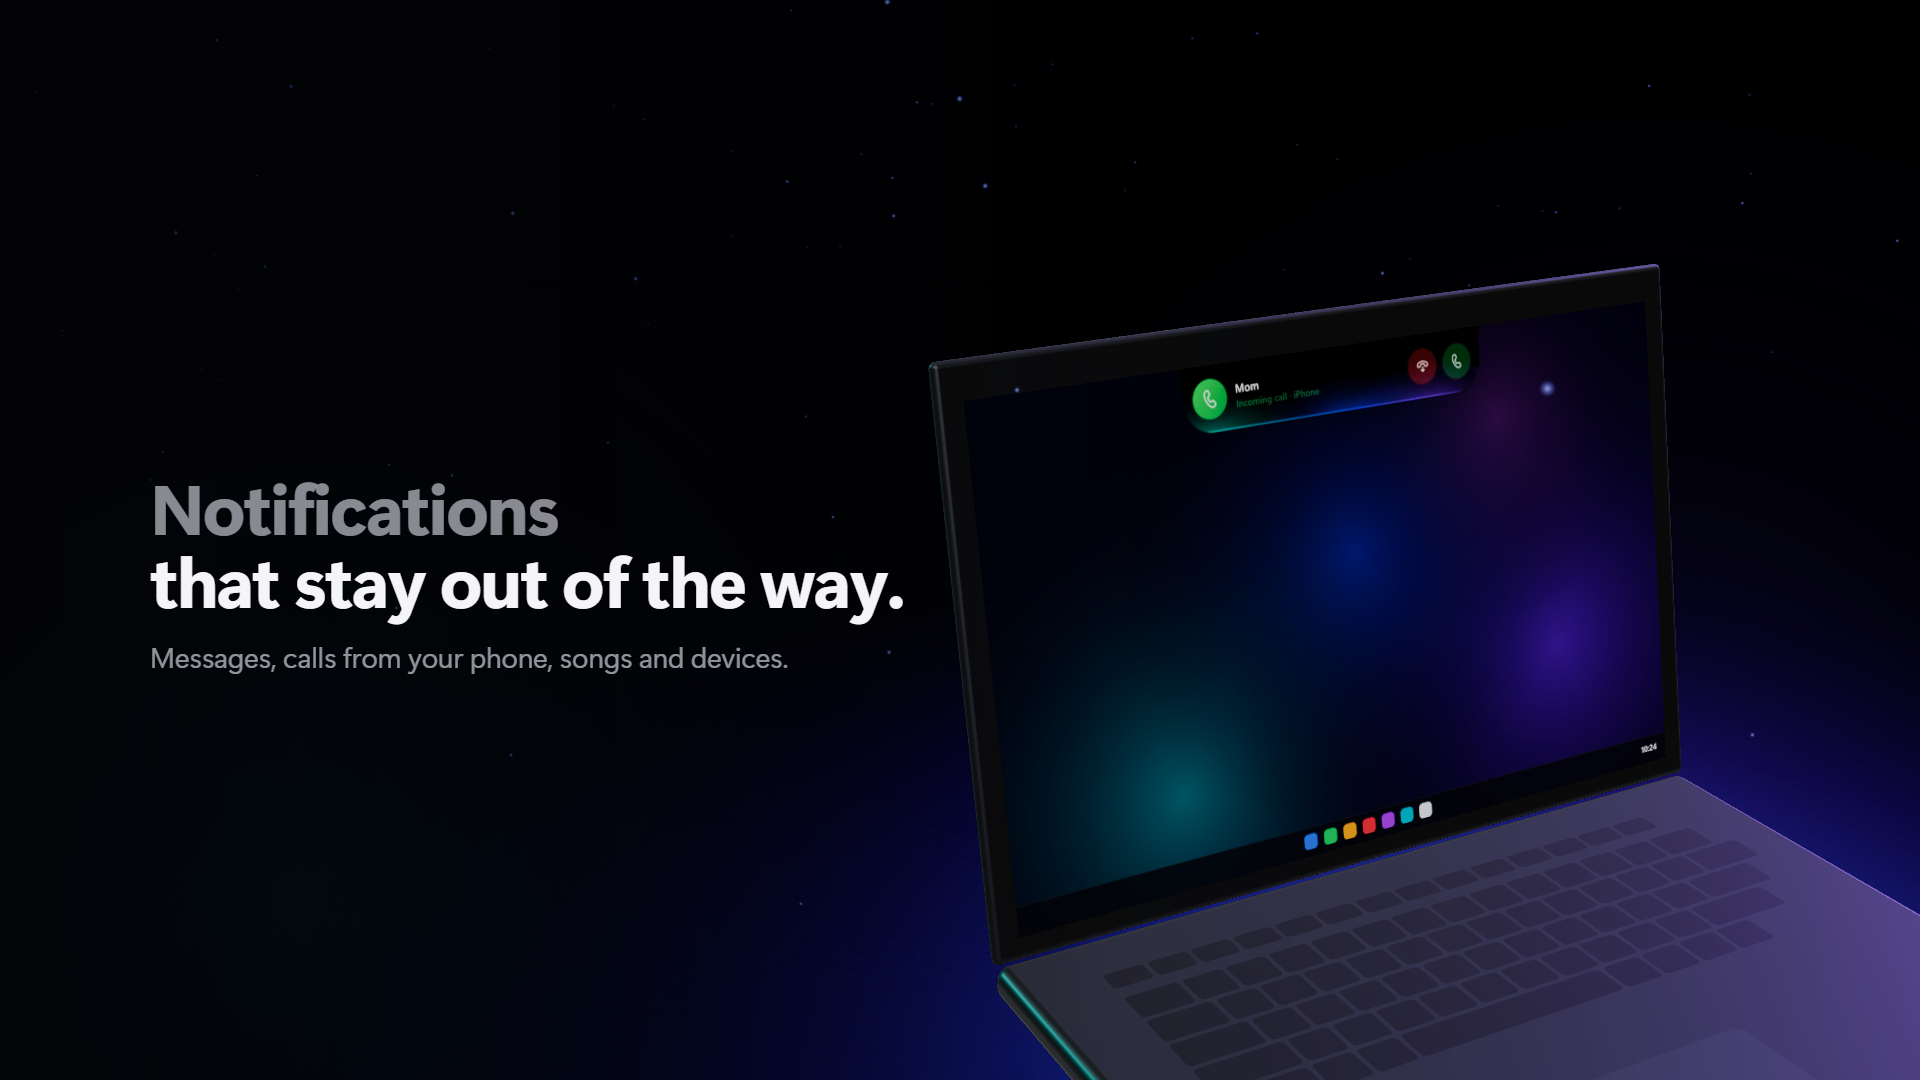
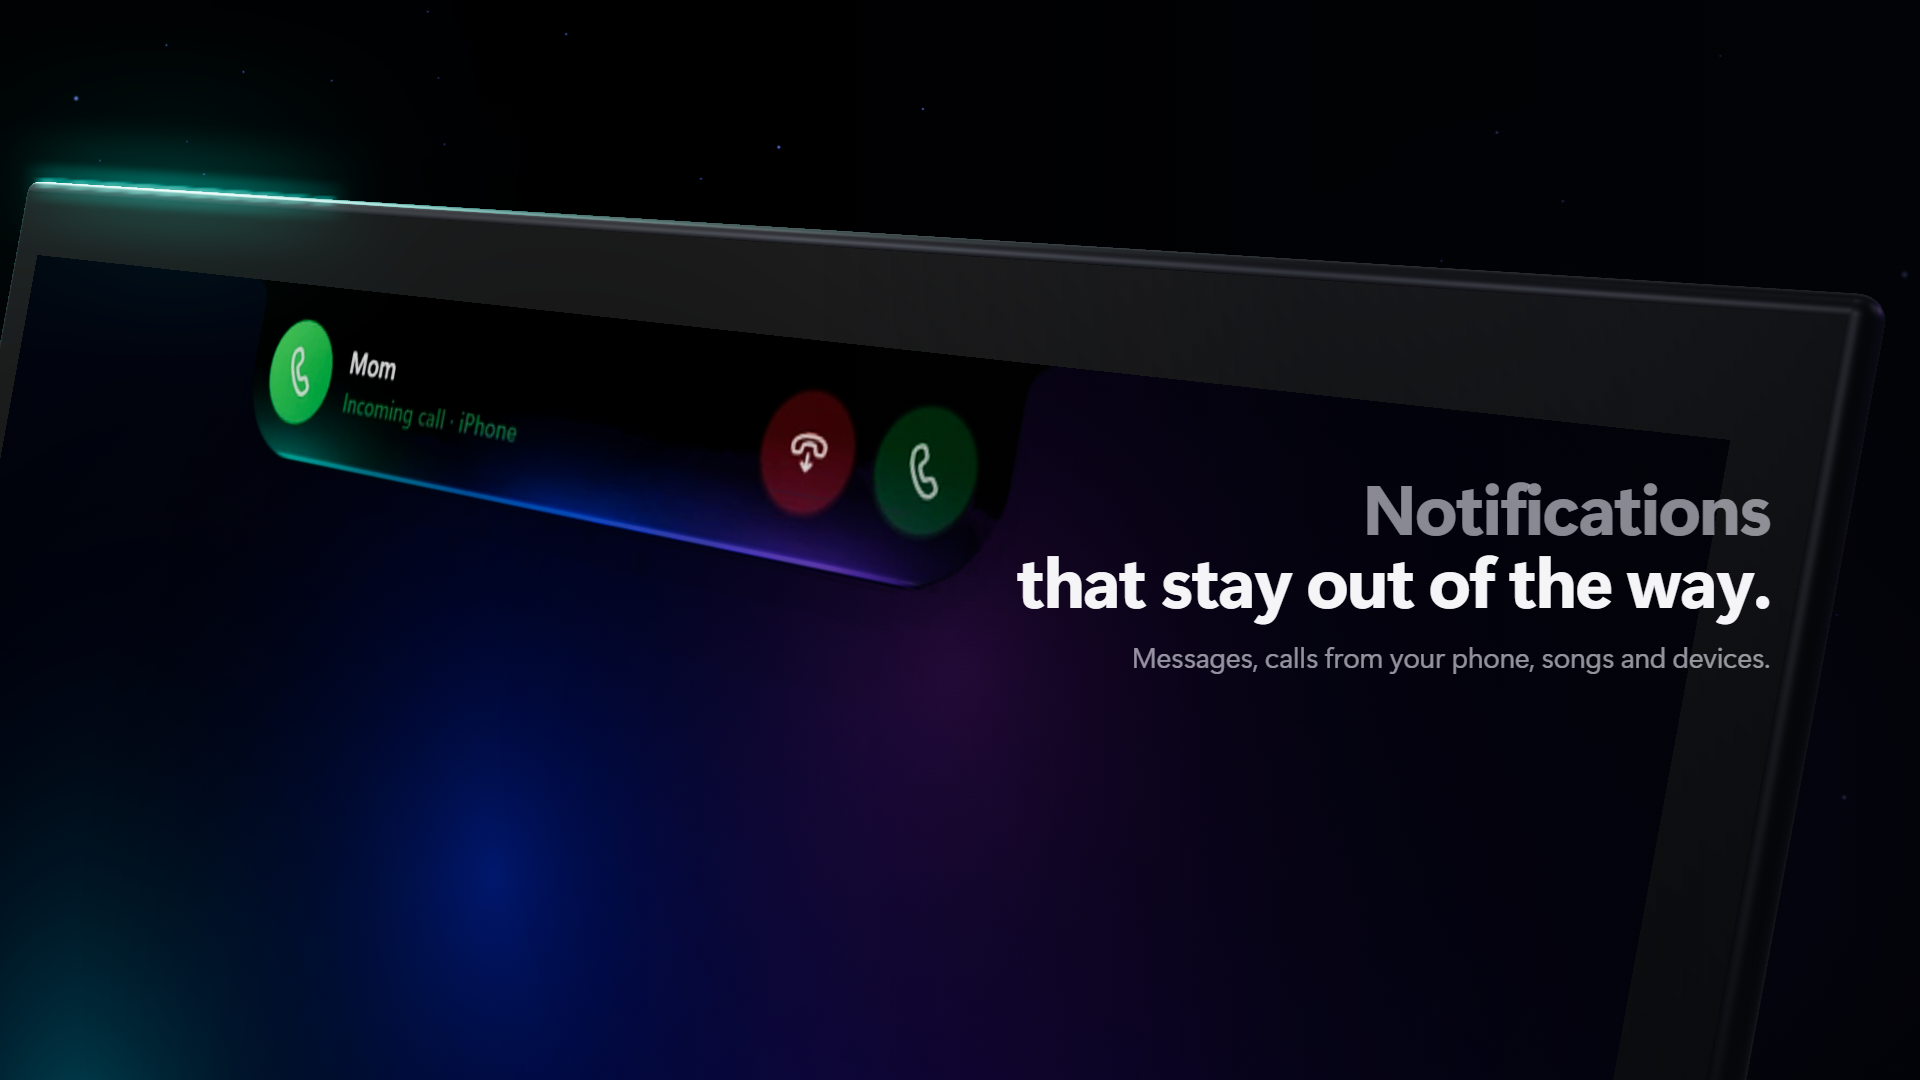
Store screenshots: each from its own angle, close on the island, the words on alternating sides

diff --git a/store/trailer/scene.js b/store/trailer/scene.js
@@ -417,13 +417,28 @@ window.still = spec => {
     renderer.toneMappingExposure = 1.05 * 0.45;
     stillCap.style.display = 'none'; shade.style.opacity = 0;
   } else {
-    // the whole laptop, three-quarters on, on the right; the words on the left
-    const cp = spec.cam ?? [-28, 27, 62], cl = spec.look ?? [-18.5, 2, 0];
-    camera.position.set(mid.x + cp[0], mid.y + cp[1], mid.z + cp[2]); camera.lookAt(mid.x + cl[0], mid.y + cl[1], mid.z + cl[2]);
+    // close on the island, from this shot's own angle: az (around), el (above), d (away) from the
+    // island's middle as it sits on the turned laptop; it lands on the side away from the words
+    laptop.updateMatrixWorld(true);
+    const sc = screenOverride.scale, target = onScreen(0.5, Math.min(0.45, im.height * sc / 2 / SH));
+    const az = spec.az * Math.PI / 180, el = spec.el * Math.PI / 180;
+    // far enough that the island fills its share of the frame (about half), whatever its size
+    const islandW = im.width * sc / SW * SPW;
+    spec = { ...spec, d: spec.d ?? islandW / (1.02 * (spec.fill ?? 0.46)) };
+    camera.up.set(0, 1, 0);
+    camera.position.set(target.x + spec.d * Math.sin(az) * Math.cos(el), target.y + spec.d * Math.sin(el), target.z + spec.d * Math.cos(az) * Math.cos(el));
+    camera.lookAt(target);
+    const right = new THREE.Vector3(1, 0, 0).applyQuaternion(camera.quaternion), up = new THREE.Vector3(0, 1, 0).applyQuaternion(camera.quaternion);
+    const textRight = spec.textSide === 'right';
+    camera.lookAt(target.clone().addScaledVector(right, (textRight ? 1 : -1) * 0.21 * 1.02 * spec.d).addScaledVector(up, -(spec.lift ?? 0.04) * spec.d));
+    camera.rotateZ((spec.roll ?? 0) * Math.PI / 180);
     logo.style.opacity = 0;
     renderer.toneMappingExposure = 1.05;
-    stillCap.style.left = '150px'; stillCap.style.top = (spec.y ?? 470) + "px"; stillCap.style.display = 'block';
-    stillCap.innerHTML = `<span class="line lead" style="font-size:70px">${spec.lead}</span><span class="line" style="font-size:70px">${spec.line}</span><span class="sub" style="font-size:28px;max-width:640px;white-space:normal">${spec.sub}</span>`;
+    const textRight2 = spec.textSide === 'right';
+    stillCap.style.left = textRight2 ? 'auto' : '150px'; stillCap.style.right = textRight2 ? '150px' : 'auto'; stillCap.style.textAlign = textRight2 ? 'right' : 'left';
+    stillCap.style.top = (spec.y ?? 470) + "px"; stillCap.style.display = 'block';
+    shade.style.background = `linear-gradient(${textRight2 ? 270 : 90}deg in oklch, rgba(3,4,8,0.78) 0%, rgba(3,4,8,0.5) 32%, rgba(3,4,8,0) 58%)`;
+    stillCap.innerHTML = `<span class="line lead" style="font-size:70px">${spec.lead}</span><span class="line" style="font-size:70px">${spec.line}</span><span class="sub" style="font-size:28px;max-width:640px;white-space:normal;${textRight2 ? 'margin-left:auto' : ''}">${spec.sub}</span>`;
     shade.style.opacity = 1;
   }
   bloom.strength = 0.5;
